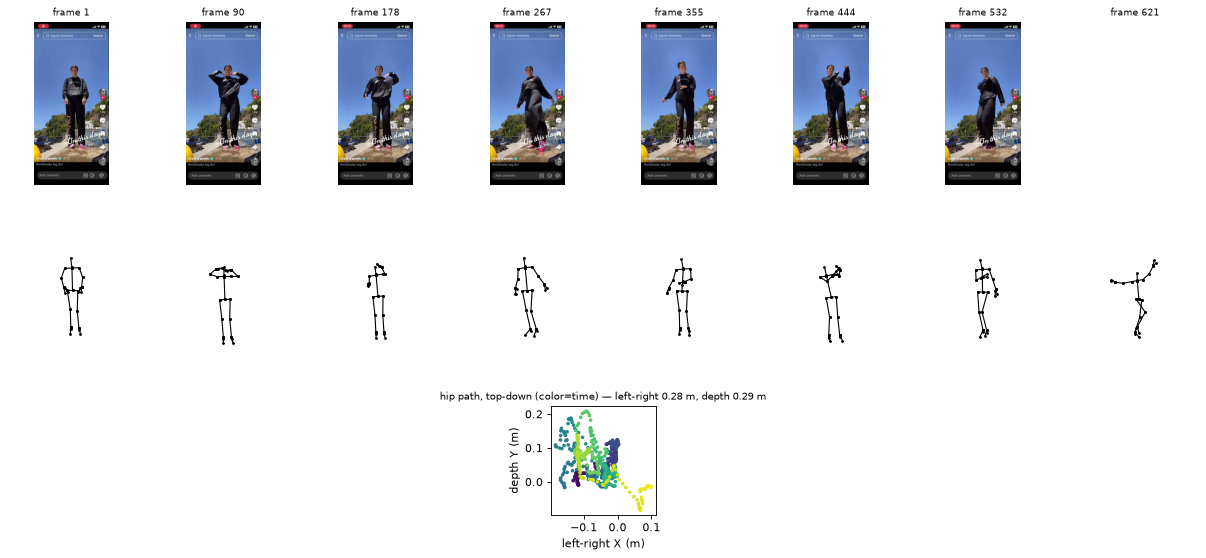
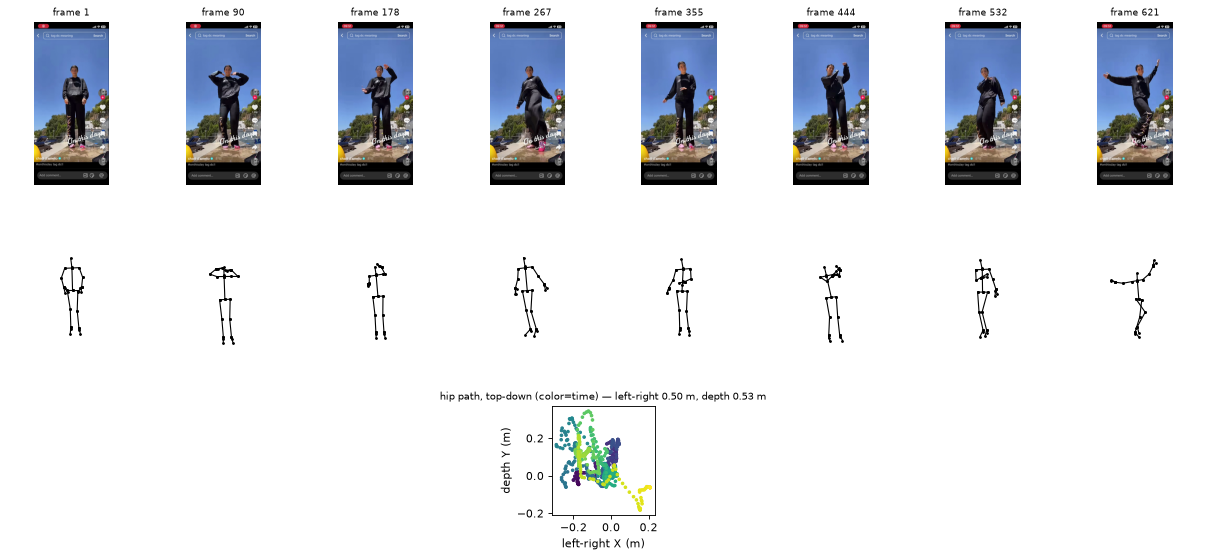
Exaggerate hip sway (gain=1.8) and fix blank last preview panel
ground_anchor gains a `gain` knob that scales the recovered high-pass hip sway
(1.8x -> ~50cm vs ~28cm physical); planted foot slides by (gain-1)x, an accepted
readability trade-off. verify() now grabs sample frames via one sequential decode
pass, picking the nearest timestamp, instead of seeking — robust on VFR footage
and the last panel lands on the real final frame instead of overshooting to blank.

diff --git a/dance_to_3d.py b/dance_to_3d.py
@@ -149,13 +149,17 @@ def rigidify(frames):
     return out
 
 
-def ground_anchor(frames, fps):
+def ground_anchor(frames, fps, gain=1.8):
     """Plant the feet on the ground so hip sway/bob shows over stationary feet.
 
     MediaPipe's world landmarks are HIP-centered: the hips sit at the origin every
     frame. If we just use the raw coordinates, the hips are frozen and the feet slide.
     This integrates the movement of the support foot to recover true hip translation,
-    ensuring the support foot stays perfectly planted during weight shifts."""
+    ensuring the support foot stays perfectly planted during weight shifts.
+
+    `gain` scales the recovered sway: gain=1.0 is physically exact (planted foot stays
+    put); >1 exaggerates hip movement for readability at the cost of the planted foot
+    sliding by (gain-1)x its motion. Only the high-pass sway is scaled, not global drift."""
     frozen = [f for f in frames if f is not None]
     if not frozen:
         return frames
@@ -196,9 +200,9 @@ def ground_anchor(frames, fps):
         if f is None:
             out.append(None)
             continue
-        hx = H[i][0] - smoothed_H[h_idx][0]
-        hy = H[i][1] - smoothed_H[h_idx][1]
-        hz = H[i][2] - smoothed_H[h_idx][2]
+        hx = (H[i][0] - smoothed_H[h_idx][0]) * gain
+        hy = (H[i][1] - smoothed_H[h_idx][1]) * gain
+        hz = (H[i][2] - smoothed_H[h_idx][2]) * gain
         h_idx += 1
         out.append([[f[lm][0] + hx, f[lm][1] + hy, f[lm][2] + hz, f[lm][3]] for lm in range(33)])
 
@@ -449,17 +453,32 @@ def verify(video):
         jp.unlink(missing_ok=True)
 
     fps = d["fps"]
-    cap = cv2.VideoCapture(str(video))
     samples = d["samples"]
     n = len(samples)
+
+    # One sequential decode pass, keeping the frame nearest each sample's timestamp.
+    # Seeking (POS_MSEC/POS_FRAMES) is unreliable on VFR footage; this isn't, and the
+    # last sample naturally lands on the true final frame instead of overshooting to blank.
+    targets = [(s["frame"] - 1) / fps * 1000.0 for s in samples]
+    best = [None] * n
+    cap = cv2.VideoCapture(str(video))
+    while True:
+        ok, frame = cap.read()
+        if not ok:
+            break
+        t = cap.get(cv2.CAP_PROP_POS_MSEC)
+        for j, tgt in enumerate(targets):
+            dist = abs(t - tgt)
+            if best[j] is None or dist < best[j][0]:
+                best[j] = (dist, frame.copy())
+    cap.release()
+
     gs = GridSpec(3, n, height_ratios=[3, 3, 2])
     fig = plt.figure(figsize=(2.4 * n, 8))
     for i, s in enumerate(samples):
-        cap.set(cv2.CAP_PROP_POS_MSEC, (s["frame"] - 1) / fps * 1000.0)
-        ok, frame = cap.read()
         ax = fig.add_subplot(gs[0, i])
-        if ok:
-            ax.imshow(cv2.cvtColor(frame, cv2.COLOR_BGR2RGB))
+        if best[i] is not None:
+            ax.imshow(cv2.cvtColor(best[i][1], cv2.COLOR_BGR2RGB))
         ax.set_title(f"frame {s['frame']}", fontsize=8)
         ax.axis("off")
 
@@ -475,7 +494,6 @@ def verify(video):
         ax3.view_init(elev=8, azim=-90)  # front view (camera down -Y), Z up
         ax3.set_box_aspect((1, 1, 1))
         ax3.axis("off")
-    cap.release()
 
     # hip trajectory (top-down): shows translation the auto-centered skeletons hide
     track = d["hip_track"]

diff --git a/CLAUDE.md b/CLAUDE.md
@@ -101,6 +101,10 @@ video's end, leaving one blank video panel — cosmetic.
   foot at the origin. This replaced an earlier monocular hip-screen-translation hack that
   only recovered ~9 cm and was jittery. Trade-off: global floor travel (dancer walking
   across the room) is intentionally dropped — right for an in-place dance.
+  The `gain` knob (default 1.8) scales the recovered sway: 1.0 is physically exact (planted
+  foot dead still, ~28 cm hip travel on dance.MP4); >1 exaggerates hip movement for
+  readability but lets the planted foot slide by (gain-1)x its motion. Only the high-pass
+  sway is scaled, not the removed global drift.
 - **VFR video warning**: this footage is variable-frame-rate (phone/TikTok). OpenCV
   reports an inconsistent frame count and FPS run-to-run; cross-check against
   `ffprobe`'s `avg_frame_rate`/`duration` (here 41.43 fps, 14.70 s) if playback speed